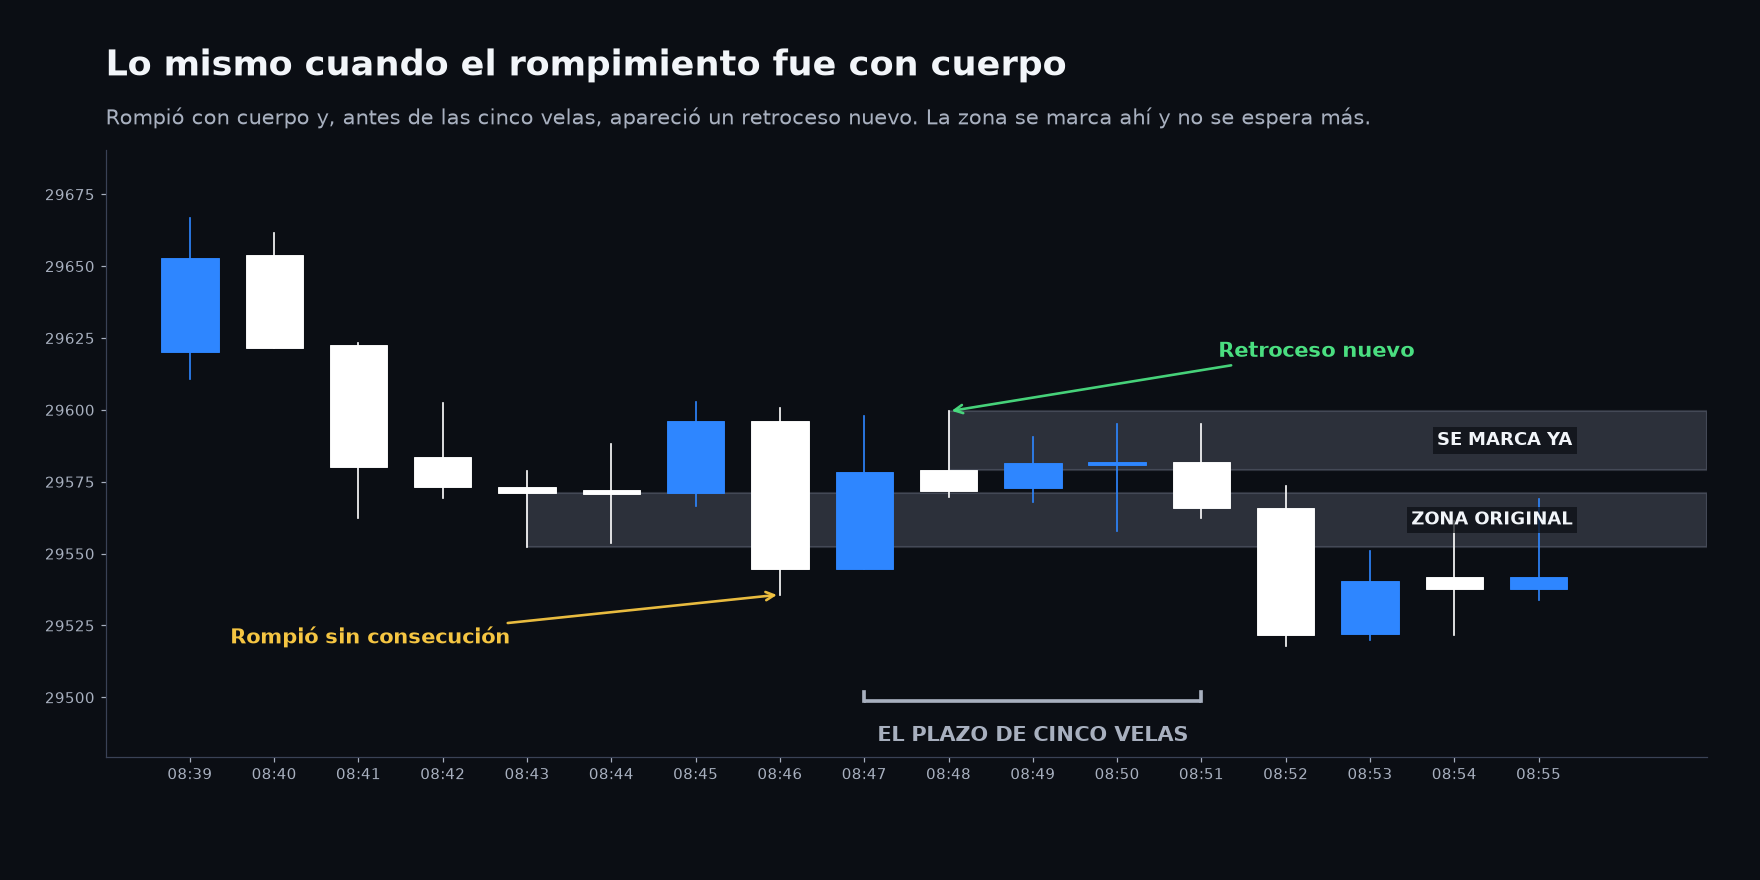
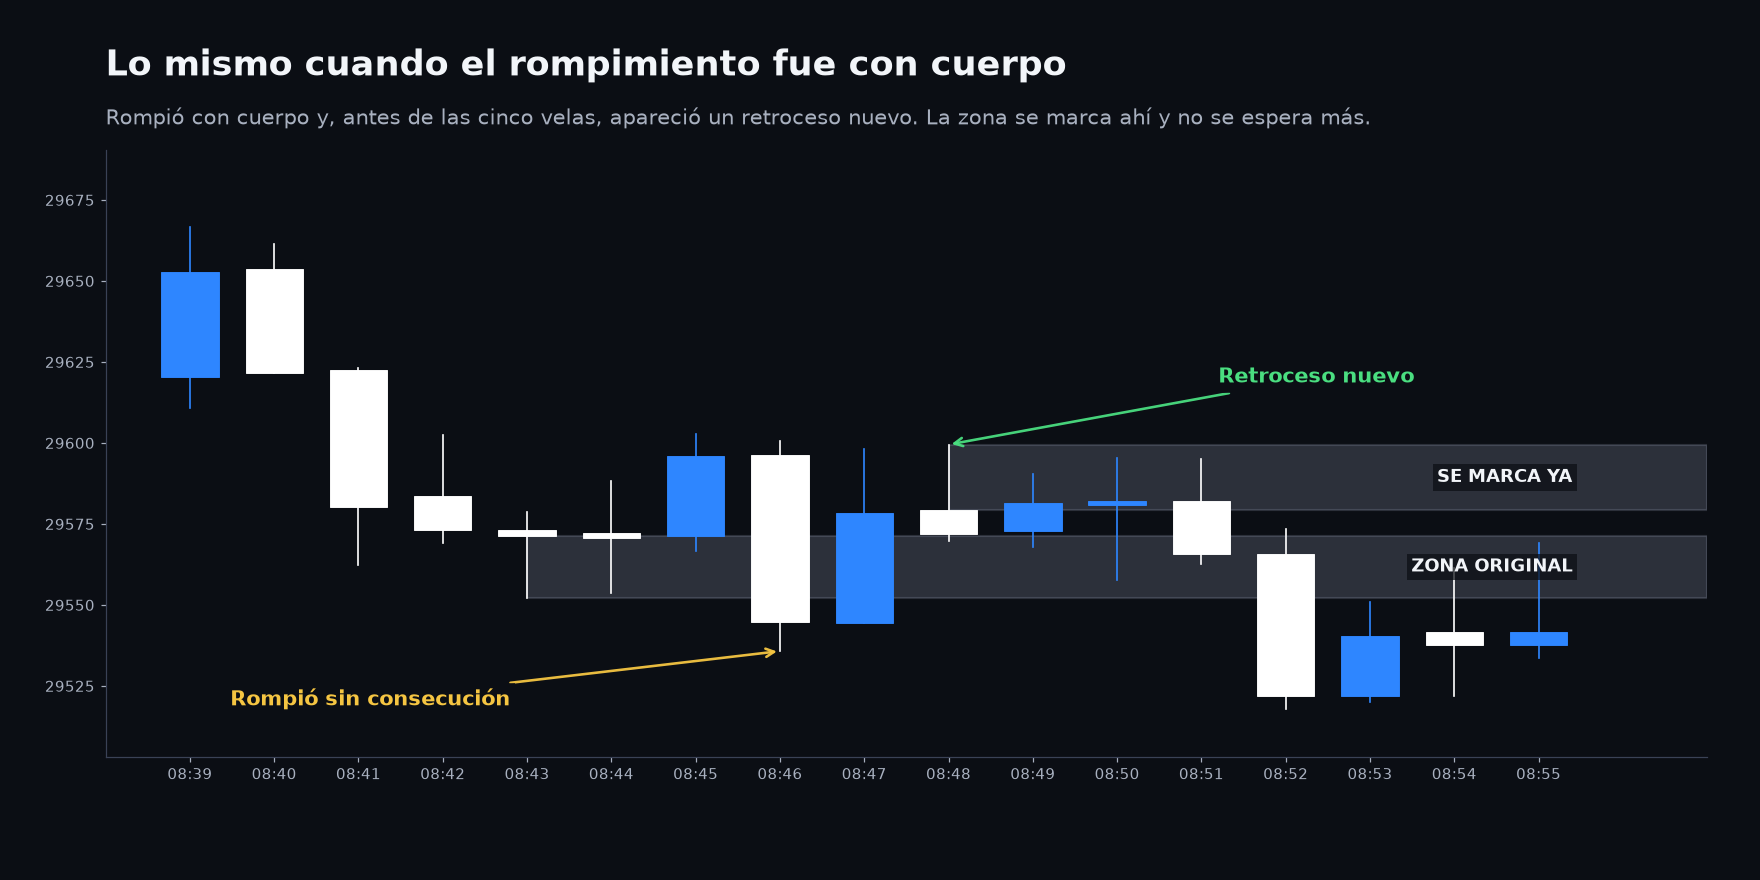
fix(portal): zonas, los graficos como los pidio el operador
- corridas limpias en los dos sentidos: se busca en todo el archivo la que
    sube (o baja) vela a vela sin dientes, y CORRIDA/RETROCESO van en un
    recuadro para que se lean sobre las velas
  - la zona de soporte, senalada: de que vela sale
  - sin consecucion: se estira LA MISMA zona, un solo rectangulo, con el
    borde anterior a trazos. Igual en el grafico de la estructura nueva
  - fuera la llave de las cinco velas en los dos graficos de estructura
    nueva: lo que manda ahi es la estructura, no el plazo
  - fuera el segundo grafico de la zona apendice
  - el lienzo deja sitio a zonas y lineas: la resistencia de «zonas entre
    zonas» salia cortada

Y un fallo que tapaba todo lo demas: una variable local llamada igual que el
ayudante `con_cuerpo` rompia el generador a partir del grafico 17, asi que
los ultimos ocho no se estaban regenerando.

diff --git a/04_Web/scripts/graficos_conceptos.py b/04_Web/scripts/graficos_conceptos.py
@@ -85,6 +85,13 @@ def dibujar(V, i0, i1, titulo, explicacion, salida,
 
     lo = min(V[i]["l"] for i in range(i0, i1))
     hi = max(V[i]["h"] for i in range(i0, i1))
+    # Las zonas y las lineas de referencia tambien tienen que caber. Si una
+    # zona queda por encima de todas las velas del recorte, se salia del
+    # lienzo y el grafico aparecia cortado.
+    for z in (zonas or []):
+        lo, hi = min(lo, z["lo"]), max(hi, z["hi"])
+    for ln in (lineas or []):
+        lo, hi = min(lo, ln[0]), max(hi, ln[0])
     rango = hi - lo
     # Aire abajo para las llaves de los tramos, y arriba para las notas.
     ax.set_ylim(lo - rango * (0.26 if tramos else 0.10), hi + rango * 0.16)
@@ -144,9 +151,13 @@ def dibujar(V, i0, i1, titulo, explicacion, salida,
                                     mutation_scale=28),
                     zorder=7)
         sube = pb > pa
-        ax.text((xa + xb) / 2, (pa + pb) / 2 + rango * (0.075 if sube else -0.075),
-                etiqueta, color=color, fontsize=16, weight="bold",
-                ha="center", va="bottom" if sube else "top", zorder=8)
+        # Con fondo propio y separado de la linea: encima de las velas el
+        # rotulo se perdia.
+        ax.text((xa + xb) / 2, (pa + pb) / 2 + rango * (0.11 if sube else -0.11),
+                etiqueta, color=color, fontsize=17, weight="bold",
+                ha="center", va="bottom" if sube else "top", zorder=8,
+                bbox=dict(facecolor=FONDO, edgecolor=color, lw=1.2, alpha=0.9,
+                          boxstyle="round,pad=0.35"))
 
     # llaves de tramo, debajo del precio
     base = lo - rango * 0.13
@@ -184,6 +195,9 @@ def dibujar(V, i0, i1, titulo, explicacion, salida,
                     color=color, fontsize=13.5, weight="bold",
                     ha="left" if izq else "right", va="center",
                     arrowprops=dict(arrowstyle="->", color=color, lw=1.7, alpha=0.95),
+                    # Fondo propio: sobre las velas el rotulo se perdia.
+                    bbox=dict(facecolor=FONDO, edgecolor="none", alpha=0.8,
+                              boxstyle="square,pad=0.25"),
                     zorder=8)
 
     # Lineas horizontales de referencia (la mitad entre dos zonas, R-17).
@@ -194,7 +208,9 @@ def dibujar(V, i0, i1, titulo, explicacion, salida,
         ax.plot([0, n], [precio, precio], color=color, lw=1.4,
                 linestyle=(0, (6, 4)), alpha=0.9, zorder=5)
         ax.text(0.4, precio + rango * 0.012, etiqueta, color=color,
-                fontsize=12, weight="bold", ha="left", va="bottom", zorder=7)
+                fontsize=12, weight="bold", ha="left", va="bottom", zorder=7,
+                bbox=dict(facecolor=FONDO, edgecolor="none", alpha=0.8,
+                          boxstyle="square,pad=0.25"))
 
     ax.tick_params(colors=TENUE, labelsize=10)
     for lado in ("top", "right"):
@@ -243,6 +259,63 @@ def main():
     zz = zigzag_de(V, zonas, i0, i1)
     print("ventana:", i1 - i0, "velas ·", len(zonas), "zonas")
 
+    def sesiones():
+        """Los dias validados, con su ventana y su estructura ya calculada."""
+        for d in DIAS:
+            a, b = ventana_sesion(V, d)
+            if a is None or b - a < 30:
+                continue
+            yield d, a, b, motor.estructura(V, a, b)
+
+    def borde_de(z):
+        return z["hi"] if z["tipo"] == "R" else z["lo"]
+
+    def busca_rompimiento(z, j1, desde=None):
+        """La primera vela que pasa el borde de la zona por un tick."""
+        arriba = z["tipo"] == "R"
+        borde = borde_de(z)
+        ini = desde if desde is not None else z["vela"] + 2
+        for i in range(ini, min(z["vela"] + 60, j1)):
+            if (V[i]["h"] > borde) if arriba else (V[i]["l"] < borde):
+                return i
+        return None
+
+    def busca_consecucion(z, rot, j1, plazo=5):
+        """La vela que pasa del extremo de la que rompio, dentro del plazo."""
+        arriba = z["tipo"] == "R"
+        for j in range(rot + 1, min(rot + 1 + plazo, j1)):
+            if (V[j]["h"] > V[rot]["h"]) if arriba else (V[j]["l"] < V[rot]["l"]):
+                return j
+        return None
+
+    def con_cuerpo(z, rot):
+        """El cierre quedo al otro lado del borde: rompimiento con cuerpo."""
+        borde = borde_de(z)
+        return (V[rot]["c"] > borde) if z["tipo"] == "R" else (V[rot]["c"] < borde)
+
+
+    def corrida_limpia(z):
+        """Cuantas velas de la corrida avanzan de verdad, en tanto por uno.
+
+        Una corrida «limpia» es la que sube (o baja) vela a vela sin dientes.
+        Es lo que el operador pidio para los graficos que explican el
+        concepto: nada de recorridos enredados."""
+        arriba = z["tipo"] == "R"
+        a, b = z["c0"], z["vela"]
+        if b <= a:
+            return 0.0
+        buenas = 0
+        for i in range(a + 1, b + 1):
+            if (V[i]["h"] > V[i - 1]["h"]) if arriba else (V[i]["l"] < V[i - 1]["l"]):
+                buenas += 1
+        return buenas / (b - a)
+
+    def recorrido(z):
+        """Cuanto avanza la corrida, en puntos."""
+        return (V[z["vela"]]["h"] - V[z["c0"]]["l"] if z["tipo"] == "R"
+                else V[z["c0"]]["h"] - V[z["vela"]]["l"])
+
+
     # ── 1 · la ventana operativa ────────────────────────────────────────
     dia_idx = [i for i, k in enumerate(V) if k["d"] == DIA]
     a, b = max(dia_idx[0], i0 - 150), min(dia_idx[-1] + 1, i1 + 80)
@@ -252,13 +325,22 @@ def main():
             os.path.join(SALIDA, "01-ventana.png"),
             franja=(i0, i1, ORO, "VENTANA OPERATIVA"))
 
-    # ── 2 · corrida y retroceso, como TRAMOS ────────────────────────────
-    # Se busca una subida larga y limpia para que el concepto se vea solo.
-    alcistas = [z for z in zonas if z["tipo"] == "R" and z["c1"] - z["c0"] >= 4]
-    z = max(alcistas, key=lambda z: V[z["vela"]]["h"] - V[z["c0"]]["l"]) if alcistas else None
-    if z:
-        fin_retro = min(z["c1"] + 4, i1 - 1)
-        a, b = max(z["c0"] - 4, i0), min(fin_retro + 5, i1)
+    # ── 2 · corrida y retroceso, con flechas ────────────────────────────
+    # El operador las quiere LIMPIAS: que se vea subir vela a vela, sin
+    # dientes, y con pocas velas alrededor. Se busca en todo el archivo.
+    mejor = None
+    for d, j0, j1, zs in sesiones():
+        for z in zs:
+            if z["tipo"] != "R" or not (4 <= z["c1"] - z["c0"] <= 7):
+                continue
+            if corrida_limpia(z) < 0.85 or recorrido(z) < 25:
+                continue
+            if mejor is None or recorrido(z) > recorrido(mejor[1]):
+                mejor = (j0, z, j1)
+    if mejor:
+        j0, z, j1 = mejor
+        fin_retro = min(z["c1"] + 3, j1 - 1)
+        a, b = max(z["c0"] - 3, j0), min(fin_retro + 4, j1)
         dibujar(V, a, b,
                 "El precio avanza y descansa",
                 "Al movimiento que avanza se le llama corrida. Al descanso que viene después, retroceso.",
@@ -267,6 +349,8 @@ def main():
                           "CORRIDA", CIAN),
                          (z["vela"], V[z["vela"]]["h"], fin_retro, V[fin_retro]["l"],
                           "RETROCESO", ORO)])
+    else:
+        print("  aviso: sin corrida alcista limpia")
 
     # ── 4 · romper no es confirmar ──────────────────────────────────────
     hecho = False
@@ -313,20 +397,22 @@ def main():
         cierre_fuera = (V[rot]["c"] > borde_z) if arriba else (V[rot]["c"] < borde_z)
         if cierre_fuera:
             continue
-        # La zona ya estirada: el borde de fuera se va a la punta de la mecha.
+        # NO se dibuja otra zona: es LA MISMA, que crece hasta la punta de la
+        # mecha. El operador lo corrigio el 03/09/2026: el rectangulo es uno.
         k = V[rot]
-        if arriba:
-            estirada = dict(z, vela=rot, lo=z["hi"], hi=k["h"], etiqueta="SE ESTIRA")
-        else:
-            estirada = dict(z, vela=rot, lo=k["l"], hi=z["lo"], etiqueta="SE ESTIRA")
+        borde_viejo = z["hi"] if arriba else z["lo"]
+        estirada = (dict(z, hi=k["h"], etiqueta="LA MISMA ZONA, YA ESTIRADA") if arriba
+                    else dict(z, lo=k["l"], etiqueta="LA MISMA ZONA, YA ESTIRADA"))
         a, b = max(z["vela"] - 4, i0), min(rot + 9, i1)
         dibujar(V, a, b,
                 "Sin consecución, la zona se estira hasta la mecha",
                 "Rompió con la mecha y pasaron las cinco velas. El otro borde no se mueve: sigue siendo una sola zona, más grande.",
                 os.path.join(SALIDA, "05-sin-confirmar.png"),
-                zonas=[dict(z, etiqueta="ZONA ORIGINAL"), estirada],
+                zonas=[estirada],
+                lineas=[(borde_viejo, "DONDE ESTABA EL BORDE", TENUE)],
                 marcas=[(rot, k["h"] if arriba else k["l"],
-                         "Rompió con la mecha", ORO, 0.20 if arriba else -0.20)],
+                         "Rompió con la mecha", ORO, 0.20 if arriba else -0.20,
+                         "izquierda")],
                 tramos=[(rot + 1, min(rot + 5, i1 - 1),
                          "CINCO VELAS SIN CONSECUCIÓN", TENUE)])
         break
@@ -458,9 +544,10 @@ def main():
                         if (V[i]["h"] > borde if arriba else V[i]["l"] < borde)), None)
             if rot is None or rot + 10 >= j1:
                 continue
-            # con cuerpo: el CIERRE queda mas alla del borde
-            con_cuerpo = V[rot]["c"] > borde if arriba else V[rot]["c"] < borde
-            if not con_cuerpo:
+            # con cuerpo: el CIERRE queda mas alla del borde. Nombre propio:
+            # `con_cuerpo` es el ayudante de main() y aqui lo tapaba.
+            rompio_con_cuerpo = V[rot]["c"] > borde if arriba else V[rot]["c"] < borde
+            if not rompio_con_cuerpo:
                 continue
             # y ninguna de las 5 siguientes pasa de su extremo
             if any((V[j]["h"] > V[rot]["h"] if arriba else V[j]["l"] < V[rot]["l"])
@@ -676,64 +763,33 @@ def main():
     # datos reales del operador; ninguna se dibuja a mano.
     # ══════════════════════════════════════════════════════════════════
 
-    def sesiones():
-        """Los dias validados, con su ventana y su estructura ya calculada."""
-        for d in DIAS:
-            a, b = ventana_sesion(V, d)
-            if a is None or b - a < 30:
-                continue
-            yield d, a, b, motor.estructura(V, a, b)
-
-    def borde_de(z):
-        return z["hi"] if z["tipo"] == "R" else z["lo"]
-
-    def busca_rompimiento(z, j1, desde=None):
-        """La primera vela que pasa el borde de la zona por un tick."""
-        arriba = z["tipo"] == "R"
-        borde = borde_de(z)
-        ini = desde if desde is not None else z["vela"] + 2
-        for i in range(ini, min(z["vela"] + 60, j1)):
-            if (V[i]["h"] > borde) if arriba else (V[i]["l"] < borde):
-                return i
-        return None
-
-    def busca_consecucion(z, rot, j1, plazo=5):
-        """La vela que pasa del extremo de la que rompio, dentro del plazo."""
-        arriba = z["tipo"] == "R"
-        for j in range(rot + 1, min(rot + 1 + plazo, j1)):
-            if (V[j]["h"] > V[rot]["h"]) if arriba else (V[j]["l"] < V[rot]["l"]):
-                return j
-        return None
-
-    def con_cuerpo(z, rot):
-        """El cierre quedo al otro lado del borde: rompimiento con cuerpo."""
-        borde = borde_de(z)
-        return (V[rot]["c"] > borde) if z["tipo"] == "R" else (V[rot]["c"] < borde)
-
     # ── 16 · la corrida bajista ─────────────────────────────────────────
-    # El apartado del movimiento necesita los dos sentidos, no solo el alza.
-    hecho = False
+    # El apartado del movimiento necesita los dos sentidos, y con el mismo
+    # criterio de limpieza que el alcista.
+    mejor = None
     for d, j0, j1, zs in sesiones():
-        cand = [z for z in zs if z["tipo"] == "S" and z["c1"] - z["c0"] >= 5]
-        if not cand:
-            continue
-        z = max(cand, key=lambda z: V[z["c0"]]["h"] - V[z["vela"]]["l"])
-        fin_retro = min(z["c1"] + 4, j1 - 1)
-        a, b = max(z["c0"] - 4, j0), min(fin_retro + 5, j1)
-        z2 = dict(z, etiqueta="SOPORTE")
+        for z in zs:
+            if z["tipo"] != "S" or not (4 <= z["c1"] - z["c0"] <= 7):
+                continue
+            if corrida_limpia(z) < 0.85 or recorrido(z) < 25:
+                continue
+            if mejor is None or recorrido(z) > recorrido(mejor[1]):
+                mejor = (j0, z, j1)
+    if mejor:
+        j0, z, j1 = mejor
+        fin_retro = min(z["c1"] + 3, j1 - 1)
+        a, b = max(z["c0"] - 3, j0), min(fin_retro + 4, j1)
         dibujar(V, a, b,
                 "El mismo movimiento, hacia abajo",
                 "La corrida baja y el retroceso sube. El soporte sale de la vela más baja del movimiento.",
                 os.path.join(SALIDA, "16-corrida-bajista.png"),
-                zonas=[z2],
+                zonas=[dict(z, etiqueta="SOPORTE")],
                 flechas=[(z["c0"], V[z["c0"]]["h"], z["vela"], V[z["vela"]]["l"],
                           "CORRIDA", CIAN),
                          (z["vela"], V[z["vela"]]["l"], fin_retro, V[fin_retro]["h"],
                           "RETROCESO", ORO)])
-        hecho = True
-        break
-    if not hecho:
-        print("  aviso: sin corrida bajista larga y limpia")
+    else:
+        print("  aviso: sin corrida bajista limpia")
 
     # ── 17 · la vela designada y sus dos bordes ─────────────────────────
     # De donde salen exactamente los dos limites de la zona.
@@ -997,29 +1053,38 @@ def main():
         print("  aviso: sin zona traspasada en los dos sentidos")
 
     # ── 3 · de donde sale la zona · en BAJISTA ──────────────────────────
-    # El operador lo pidio asi el 03/09/2026: la primera imagen del apartado ya
-    # es alcista, y esta ensena el mismo mecanismo al reves.
-    hecho = False
+    # La primera imagen del apartado ya es alcista; esta ensena el mismo
+    # mecanismo al reves. El operador pidio una corrida bajista limpia y que
+    # se vea de que vela sale el soporte.
+    mejor = None
     for d, j0, j1, zs in sesiones():
-        cand = [z for z in zs if z["tipo"] == "S" and 3 <= z["c1"] - z["c0"] <= 6]
-        if not cand:
-            continue
-        z = cand[0]
+        for z in zs:
+            if z["tipo"] != "S" or not (4 <= z["c1"] - z["c0"] <= 6):
+                continue
+            if corrida_limpia(z) < 0.85 or not (20 <= recorrido(z) <= 70):
+                continue
+            # que la vela del minimo tenga mecha: si no, la zona es una raya
+            k = V[z["vela"]]
+            if min(k["o"], k["c"]) - k["l"] < 1.5:
+                continue
+            if mejor is None or recorrido(z) > recorrido(mejor[1]):
+                mejor = (j0, z, j1)
+    if mejor:
+        j0, z, j1 = mejor
+        k = V[z["vela"]]
         fin_retro = min(z["c1"] + 3, j1 - 1)
-        a, b = max(z["c0"] - 3, j0), min(fin_retro + 8, j1)
+        a, b = max(z["c0"] - 3, j0), min(fin_retro + 6, j1)
         dibujar(V, a, b,
                 "Cada movimiento deja un rastro",
                 "Corrida bajista y retroceso al alza. La vela del mínimo deja una zona de soporte, y ese rastro es lo que se opera después.",
                 os.path.join(SALIDA, "03-zona.png"),
                 zonas=[dict(z, etiqueta="SOPORTE")],
-                flechas=[(z["c0"], V[z["c0"]]["h"], z["vela"], V[z["vela"]]["l"],
-                          "CORRIDA", CIAN),
-                         (z["vela"], V[z["vela"]]["l"], fin_retro, V[fin_retro]["h"],
-                          "RETROCESO", ORO)])
-        hecho = True
-        break
-    if not hecho:
-        print("  aviso: sin corrida bajista corta para el gráfico de la zona")
+                marcas=[(z["vela"], (z["lo"] + z["hi"]) / 2,
+                         "El soporte sale de esta vela", ZONA, 0.10, "izquierda")],
+                flechas=[(z["c0"], V[z["c0"]]["h"], z["vela"], k["l"],
+                          "CORRIDA", CIAN)])
+    else:
+        print("  aviso: sin corrida bajista limpia para el gráfico de la zona")
 
     # ── 24 y 25 · la estructura nueva llega antes que las cinco velas ───
     # R-19: el plazo es un tope, no una espera. Si aparece un retroceso nuevo
@@ -1061,15 +1126,26 @@ def main():
                 if not elegidas:
                     continue
                 nueva = elegidas[0]
-                etiq = "SE ESTIRA YA" if prefiere_tocar else "SE MARCA YA"
+                if prefiere_tocar:
+                    # La zona nueva toca a la original: no son dos zonas, es LA
+                    # MISMA estirada hasta el extremo nuevo. Un solo rectangulo.
+                    pintadas = [dict(z, lo=min(z["lo"], nueva["lo"]),
+                                     hi=max(z["hi"], nueva["hi"]),
+                                     etiqueta="LA MISMA ZONA, YA ESTIRADA")]
+                    refs = [(z["hi"] if z["tipo"] == "R" else z["lo"],
+                             "DONDE ESTABA EL BORDE", TENUE)]
+                else:
+                    pintadas = [dict(z, etiqueta="ZONA ORIGINAL"),
+                                dict(nueva, etiqueta="SE MARCA YA")]
+                    refs = None
                 a = max(z["vela"] - 4, j0)
                 b = min(nueva["vela"] + 8, j1)
                 arriba = z["tipo"] == "R"
                 sube = nueva["tipo"] == "R"
                 dibujar(V, a, b, titulo, expl,
                         os.path.join(SALIDA, archivo),
-                        zonas=[dict(z, etiqueta="ZONA ORIGINAL"),
-                               dict(nueva, etiqueta=etiq)],
+                        zonas=pintadas,
+                        lineas=refs,
                         marcas=[(rot, V[rot]["h"] if arriba else V[rot]["l"],
                                  "Rompió sin consecución", ORO,
                                  0.10 if arriba else -0.10, "izquierda"),
@@ -1077,9 +1153,7 @@ def main():
                                 # llave del plazo y los rotulos se pisaban.
                                 (nueva["vela"],
                                  V[nueva["vela"]]["h"] if sube else V[nueva["vela"]]["l"],
-                                 "Retroceso nuevo", VERDE, 0.14, "derecha")],
-                        tramos=[(rot + 1, min(rot + 5, j1 - 1),
-                                 "EL PLAZO DE CINCO VELAS", TENUE)])
+                                 "Retroceso nuevo", VERDE, 0.14, "derecha")])
                 hecho = True
                 break
             if hecho:

diff --git a/04_Web/textos/02-zonas.md b/04_Web/textos/02-zonas.md
@@ -150,9 +150,6 @@ Si el rompimiento **fue con cuerpo** y pasan 5 velas sin consecución, no se est
 - **El otro borde** — El extremo de su mecha
 - **Zonas resultantes** — 2: la original y su apéndice
 
-> 🖼 **Gráfico.** Texto alternativo: Otro caso real de zona apéndice sobre la mecha de la vela de rompimiento
-> Pie: Otro caso real: la apéndice ocupa exactamente la mecha que sobresalió, nada más.
-
 > **[REGLA DURA]**
 > **La apéndice no nace por acción del precio sobre ella.** No es una zona más que apareció: es el rastro de un rompimiento que se quedó sin consecución.
 
